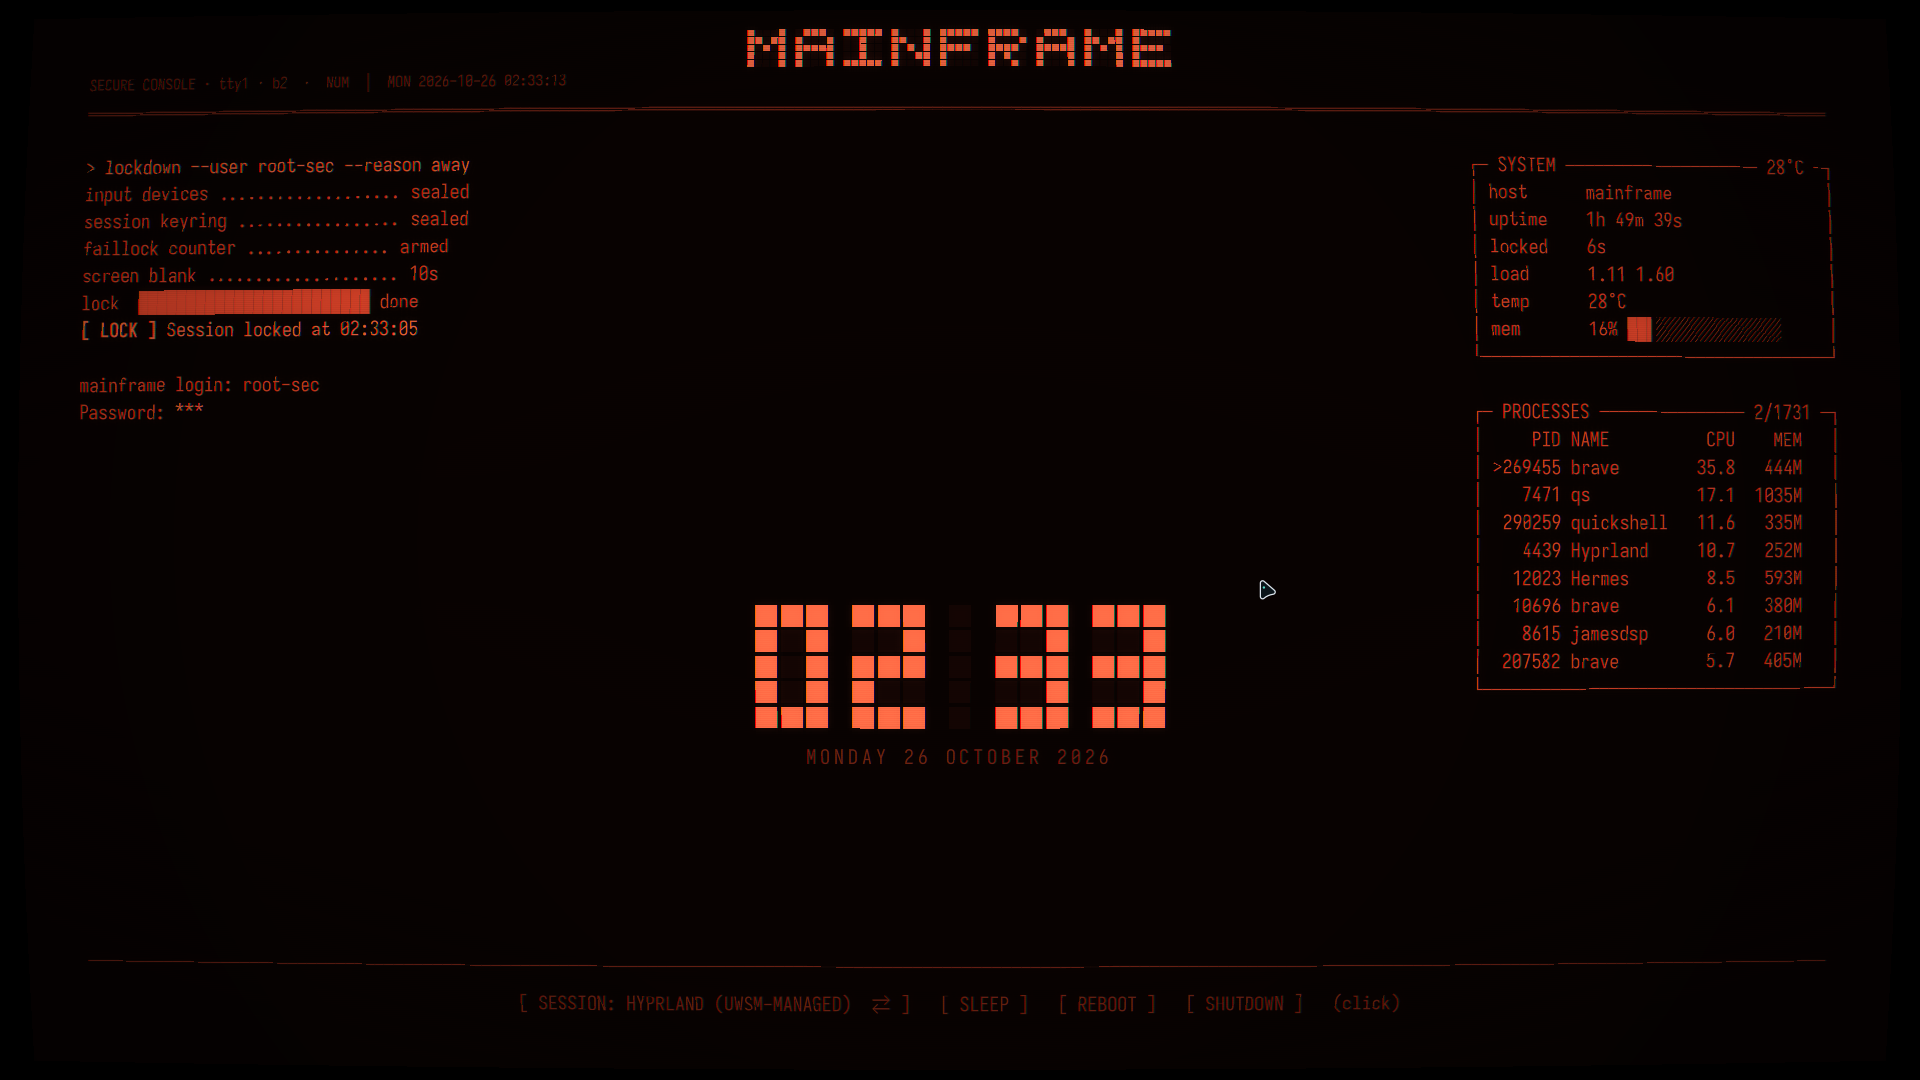
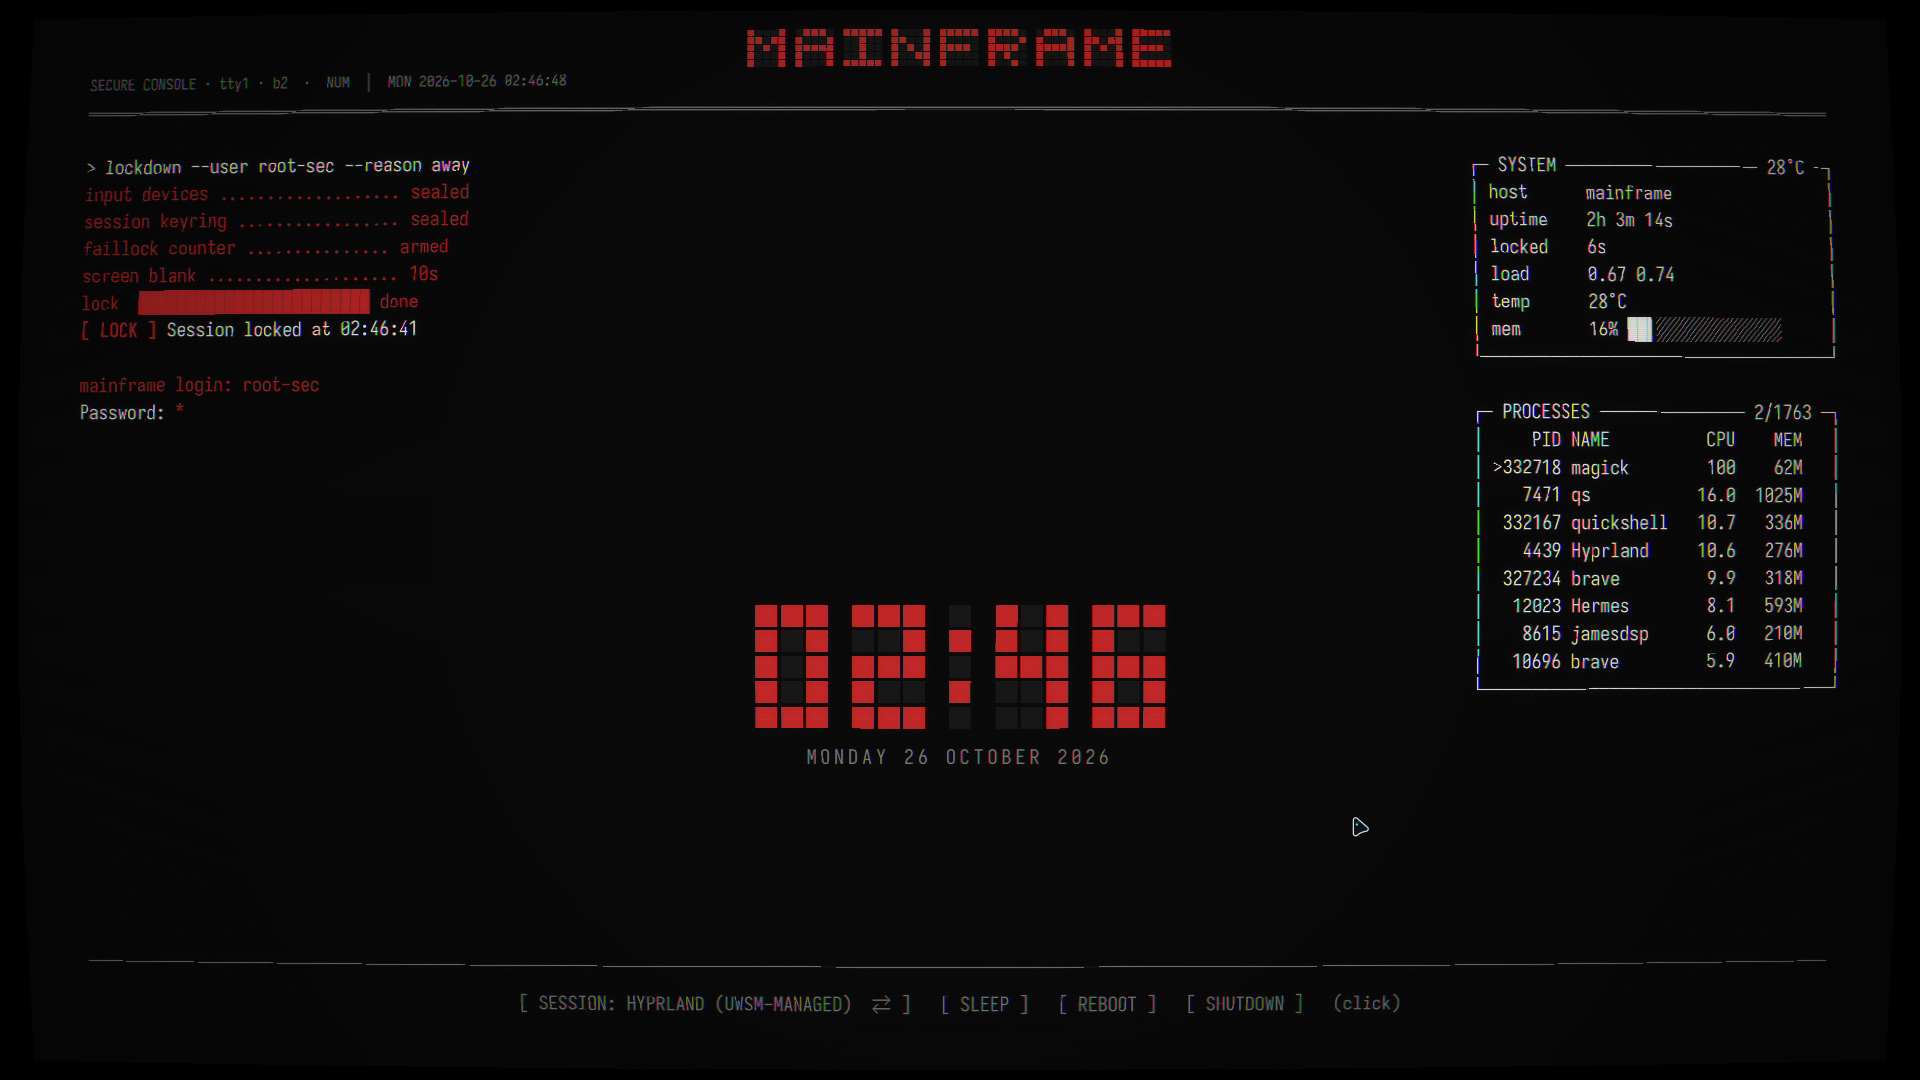
terminal 1.2.1: red palette, media and keymap readers removed
manifestSha256 c54fbbaec2a1830f08ec6b510a5bfb9ccd5c5afc14b8d904025950abb7f8a291.
Surface #161616, text #fafafa, accent #bb2626 - no orange left in the skin.
Preview and shot are from the lock run that produced the verdict for
Main.qml 86112514..., one display (1920x1080 / 1600x900), pixel-identical to the
captured half (AE=0).

diff --git a/lockscreens/terminal/content/Main.qml b/lockscreens/terminal/content/Main.qml
@@ -7,7 +7,7 @@ import QtQuick.Window
 // keyboard) plus live /proc system stats and MPRIS media.
 Rectangle {
     id: root
-    width: Screen.width; height: Screen.height; color: "black"
+    width: Screen.width; height: Screen.height; color: "#161616"
 
     // ── qylock / sddm plumbing ────────────────────────────────────────────
     property int sessionIndex: (typeof sessionModel !== "undefined" && sessionModel.lastIndex >= 0) ? sessionModel.lastIndex : 0
@@ -24,23 +24,20 @@ Rectangle {
     readonly property real lineH: Math.round(fontPx * 1.4)
     readonly property real margin: 64 * s
     readonly property int cols: Math.max(20, Math.floor((width - 2 * margin) / Math.max(1, glyph.advanceWidth)))
-    readonly property color ph:    "#E2452A"
-    readonly property color phHi:  "#FF6A45"
+    // palette (huemint 161616-bb2626-fafafa): #161616 surface, #fafafa text,
+    // #bb2626 accent. No orange left anywhere.
+    readonly property color ph:    "#fafafa"
+    readonly property color phHi:  "#bb2626"
     readonly property color phDim: Qt.rgba(ph.r * 0.5, ph.g * 0.5, ph.b * 0.5, 1)
-    readonly property color err:   "#FF2E22"
+    readonly property color err:   "#bb2626"
     readonly property string user: (userHelper.currentItem && userHelper.currentItem.uLogin) ? userHelper.currentItem.uLogin : (typeof userModel !== "undefined" ? userModel.lastUser : "user")
     property string host: "mainframe"
-    property string mediaTitle: ""
     // Portability (docs/02-engine.md § Portability): Quickshell.env is not available
     // in the lock context, so home is derived from this file's own URL.
     //   file:///home/<user>/.local/share/qylock/themes/<slug>/Main.qml
     //   terminal → themes → qylock → share → .local → HOME  (five ".." levels)
     readonly property string homeDir: Qt.resolvedUrl("../../../../..").toString().replace(/\/$/, "")
     readonly property string homePath: homeDir.replace(/^file:\/\//, "")
-    readonly property string mediaCache: homePath + "/.cache/qylock-media"
-    property bool mediaPlaying: false
-    property real mediaPos: 0
-    property real mediaLen: 0
 
     // ── live system stats (read from /proc + /sys, no daemon) ─────────────
     // scheduler counters out of /proc/loadavg ("0.42 0.31 0.20 2/412 12345");
@@ -66,21 +63,7 @@ Rectangle {
         interval: 2000
         repeat: true
         running: true
-        onTriggered: { readMedia(); readUptime(); readKeymap(); readSystem(); readKeyboard(); readProcs(); }
-    }
-    function readMedia() {
-        var xhr = new XMLHttpRequest();
-        try {
-            xhr.open("GET", "file://" + root.mediaCache, false);
-            xhr.send(null);
-            if ((xhr.status === 0 || xhr.status === 200) && xhr.responseText) {
-                var lines = xhr.responseText.trim().split("\n");
-                root.mediaTitle = lines[0] || "";
-                root.mediaPlaying = lines[1] === "Playing";
-                root.mediaPos = parseFloat(lines[2]) || 0;
-                root.mediaLen = parseFloat(lines[3]) || 0;
-            }
-        } catch (e) { /* cache not ready yet */ }
+        onTriggered: { readUptime(); readSystem(); readKeyboard(); readProcs(); }
     }
     function readUptime() {
         var xhr = new XMLHttpRequest();
@@ -195,17 +178,9 @@ Rectangle {
         return lines.join("\n");
     }
 
+    // TODO(next change): clip() has no caller - delete it together with the
+    // next edits, then one lock run covers both (user, 2026-10-26)
     function clip(s, maxChars) { if (!s) return ""; if (maxChars <= 1) return ""; if (s.length <= maxChars) return s; return s.slice(0, maxChars - 1) + "…"; }
-    function readKeymap() {
-        var xhr = new XMLHttpRequest();
-        try {
-            xhr.open("GET", "file://" + root.homePath + "/.cache/qylock-keymap", false);
-            xhr.send(null);
-            if ((xhr.status === 0 || xhr.status === 200) && xhr.responseText) {
-                root.keymapStr = xhr.responseText.trim() || "--";
-            }
-        } catch (e) { }
-    }
     function readKeyboard() {
         if (typeof keyboard !== "undefined") {
             root.capsOn = keyboard.capsLock;
@@ -231,7 +206,6 @@ Rectangle {
     property int attemptCount: 0
     property bool eqB: false
     property string hostUptime: "?h ?m"
-    property string keymapStr: "--"
     property real denyFlash: 0
     property int loaderStep: 0
     // CRT post-effect: time in SECONDS (the shader uses floor(time*30) for flicker
@@ -246,11 +220,11 @@ Rectangle {
     ListModel { id: log }
 
     function esc(s) { return String(s).replace(/&/g,"&amp;").replace(/</g,"&lt;").replace(/>/g,"&gt;").replace(/ /g,"&nbsp;"); }
-    readonly property color sw0: "#FF6A45"
-    readonly property color sw1: "#E2452A"
-    readonly property color sw2: "#9E301D"
-    readonly property color sw3: "#712215"
-    readonly property color sw4: "#38110A"
+    readonly property color sw0: "#fafafa"
+    readonly property color sw1: "#bb2626"
+    readonly property color sw2: "#8f1d1d"
+    readonly property color sw3: "#5c1414"
+    readonly property color sw4: "#2a1111"
     function toneColor(t) { return t === "err" ? err : t === "dim" ? sw3 : t === "hi" ? sw0 : t === "logo" ? sw2 : sw1; }
     function styled(tag, text, tone) {
         var body = '<font color="' + toneColor(tone) + '">' + esc(text) + "</font>";
@@ -656,9 +630,7 @@ Rectangle {
     Component.onCompleted: {
         pwd.forceActiveFocus();
         if (typeof keyboard !== "undefined") keyboard.numLock = true;
-        readMedia();
         readUptime();
-        readKeymap();
         readSystem();
         readKeyboard();
         powerOn.start();
